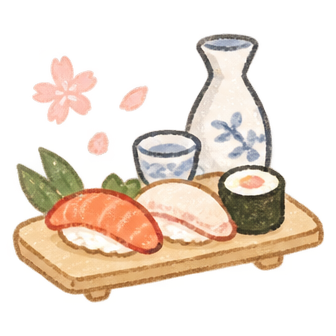
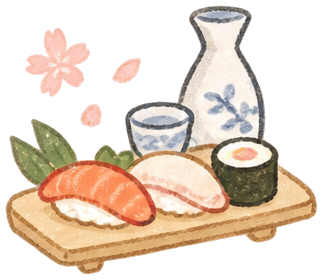
Bigger homepage dishes, cleaner fonts
- Recrop illustrations tightly so every dish fills its card like Tora
- Same soft pink behind every dish
- Drop the handwritten font and Fraunces' wonky letterforms; small
  labels now share one clean uppercase style

Claude-Session: https://claude.ai/code/session_01K3tbzaKjMcH3nM1wNB2vxt

diff --git a/app/globals.css b/app/globals.css
@@ -28,7 +28,6 @@
 
   --font-sans: "Nunito Variable", ui-rounded, -apple-system, BlinkMacSystemFont, "Segoe UI", sans-serif;
   --font-display: "Fraunces Variable", Georgia, serif;
-  --font-hand: "Gaegu", "Comic Sans MS", cursive;
 }
 
 * {
@@ -63,7 +62,7 @@ h1,
 h2,
 h3 {
   font-family: var(--font-display);
-  font-variation-settings: "SOFT" 100, "WONK" 1;
+  font-variation-settings: "SOFT" 50, "WONK" 0;
   font-weight: 650;
   letter-spacing: -0.01em;
 }
@@ -96,7 +95,7 @@ h3 {
   display: inline-flex;
   font-family: var(--font-display);
   font-size: 1.3rem;
-  font-variation-settings: "SOFT" 100, "WONK" 1;
+  font-variation-settings: "SOFT" 50, "WONK" 0;
   font-weight: 700;
   gap: 10px;
   padding: 0;
@@ -244,8 +243,7 @@ h3 {
   align-items: center;
   color: var(--coral-deep);
   display: inline-flex;
-  font-family: var(--font-hand);
-  font-size: 1.25rem;
+  font-size: 0.9rem;
   font-weight: 700;
   gap: 6px;
   line-height: 1;
@@ -270,7 +268,7 @@ h3 {
 .hero-copy h1 em {
   color: var(--coral);
   display: inline-block;
-  font-style: italic;
+  font-style: normal;
   position: relative;
 }
 
@@ -313,8 +311,7 @@ h3 {
 }
 
 .home-join label {
-  font-family: var(--font-hand);
-  font-size: 1.15rem;
+  font-size: 0.83rem;
   font-weight: 700;
 }
 
@@ -532,8 +529,7 @@ h3 {
 }
 
 .phone-status span {
-  font-family: var(--font-hand);
-  font-size: 1.2rem;
+  font-size: 0.86rem;
   font-weight: 700;
 }
 
@@ -598,8 +594,7 @@ h3 {
   background: white;
   border: 2.5px solid currentColor;
   border-radius: 12px;
-  font-family: var(--font-hand);
-  font-size: 1.1rem;
+  font-size: 0.79rem;
   font-weight: 700;
   opacity: 0;
   padding: 1px 10px;
@@ -649,7 +644,7 @@ h3 {
   display: block;
   font-family: var(--font-display);
   font-size: 1.35rem;
-  font-variation-settings: "SOFT" 100, "WONK" 1;
+  font-variation-settings: "SOFT" 50, "WONK" 0;
   font-weight: 650;
   line-height: 1.05;
   margin: 2px 0;
@@ -717,8 +712,7 @@ h3 {
 
 .swipe-hint {
   color: var(--muted);
-  font-family: var(--font-hand);
-  font-size: 1rem;
+  font-size: 0.78rem;
   margin: 0;
   text-align: center;
 }
@@ -745,8 +739,7 @@ h3 {
   align-items: center;
   color: var(--coral-deep);
   display: inline-flex;
-  font-family: var(--font-hand);
-  font-size: 1.15rem;
+  font-size: 0.83rem;
   font-weight: 700;
   gap: 5px;
 }
@@ -759,7 +752,7 @@ h3 {
 .prototype-match-pop strong {
   font-family: var(--font-display);
   font-size: 1.6rem;
-  font-variation-settings: "SOFT" 100, "WONK" 1;
+  font-variation-settings: "SOFT" 50, "WONK" 0;
   line-height: 1.05;
   margin-top: 4px;
 }
@@ -839,7 +832,7 @@ h3 {
 }
 
 .dish-art-image {
-  inset: 8% 10%;
+  inset: 9% 8%;
   position: absolute;
 }
 
@@ -889,8 +882,7 @@ h3 {
 
 .dish-art-placeholder em {
   color: var(--muted);
-  font-family: var(--font-hand);
-  font-size: 1.4rem;
+  font-size: 1.01rem;
   font-style: normal;
   font-weight: 700;
 }
@@ -907,8 +899,7 @@ h3 {
 }
 
 .food-fallback span {
-  font-family: var(--font-hand);
-  font-size: 1.3rem;
+  font-size: 0.94rem;
   font-weight: 700;
 }
 
@@ -994,8 +985,7 @@ h3 {
   border-radius: 50%;
   content: counter(step);
   display: flex;
-  font-family: var(--font-hand);
-  font-size: 1.3rem;
+  font-size: 0.94rem;
   font-weight: 700;
   grid-row: span 2;
   height: 40px;
@@ -1063,8 +1053,7 @@ h3 {
 
 .availability-note strong {
   color: var(--butter-deep);
-  font-family: var(--font-hand);
-  font-size: 1.1rem;
+  font-size: 0.79rem;
 }
 
 .segmented-control {
@@ -1122,8 +1111,7 @@ h3 {
 .preference-summary > span {
   color: var(--coral-deep);
   display: block;
-  font-family: var(--font-hand);
-  font-size: 1.1rem;
+  font-size: 0.79rem;
   font-weight: 700;
   margin-bottom: 2px;
 }
@@ -1250,8 +1238,7 @@ h3 {
   background: white;
   border: 3px solid currentColor;
   border-radius: 14px;
-  font-family: var(--font-hand);
-  font-size: 1.8rem;
+  font-size: 1.3rem;
   font-weight: 700;
   padding: 0 14px;
   pointer-events: none;
@@ -1304,8 +1291,7 @@ h3 {
 
 .restaurant-meta {
   color: var(--coral-deep);
-  font-family: var(--font-hand);
-  font-size: 1.2rem;
+  font-size: 0.86rem;
   font-weight: 700;
 }
 
@@ -1437,8 +1423,7 @@ h3 {
 
 .swipe-tip {
   color: var(--muted);
-  font-family: var(--font-hand);
-  font-size: 1.05rem;
+  font-size: 0.78rem;
   margin: 12px 0 0;
   text-align: center;
 }
@@ -1460,7 +1445,7 @@ h3 {
   display: block;
   font-family: var(--font-display);
   font-size: 2rem;
-  font-variation-settings: "SOFT" 100, "WONK" 1;
+  font-variation-settings: "SOFT" 50, "WONK" 0;
   letter-spacing: 0.06em;
   line-height: 1;
 }
@@ -1557,8 +1542,7 @@ h3 {
 
 .results-hint {
   color: var(--muted);
-  font-family: var(--font-hand);
-  font-size: 1.05rem;
+  font-size: 0.78rem;
   margin: -6px 0 12px;
 }
 
@@ -1602,8 +1586,7 @@ h3 {
 }
 
 .result-row.locked small {
-  font-family: var(--font-hand);
-  font-size: 0.95rem;
+  font-size: 0.78rem;
 }
 
 .vote-meter {
@@ -1734,7 +1717,7 @@ h3 {
 .matched-restaurant > strong {
   font-family: var(--font-display);
   font-size: 1.35rem;
-  font-variation-settings: "SOFT" 100, "WONK" 1;
+  font-variation-settings: "SOFT" 50, "WONK" 0;
 }
 
 .matched-restaurant > span {
@@ -1823,8 +1806,7 @@ h3 {
 
 .phone-preview-copy span {
   color: var(--coral-deep);
-  font-family: var(--font-hand);
-  font-size: 1.3rem;
+  font-size: 0.94rem;
   font-weight: 700;
 }
 
@@ -2029,4 +2011,34 @@ h3 {
   .prototype-card:not(.prototype-card-1) {
     opacity: 0;
   }
+}
+
+/* ---------- Small labels: one consistent style --------------------- */
+
+.eyebrow,
+.section-kicker,
+.restaurant-meta,
+.home-join label,
+.location-box span,
+.room-link span,
+.room-code span,
+.preference-summary > span,
+.availability-note strong,
+.phone-preview-copy span {
+  font-size: 0.76rem;
+  font-weight: 800;
+  letter-spacing: 0.08em;
+  text-transform: uppercase;
+}
+
+.drag-stamp,
+.swipe-stamp {
+  font-weight: 900;
+  letter-spacing: 0.06em;
+  text-transform: uppercase;
+}
+
+.swipe-stamp {
+  font-size: 0.72rem;
+  padding: 3px 9px;
 }

diff --git a/components/DishArt.tsx b/components/DishArt.tsx
@@ -17,19 +17,8 @@ const illustrations: Partial<Record<Cuisine, string>> = {
   Greek: "/illustrations/greek.png"
 };
 
-/** Soft pastel backdrops that sit behind each illustration. */
-export const cuisineBackdrops: Record<Cuisine, string> = {
-  Italian: "#fde4dc",
-  Japanese: "#fde6ec",
-  Mexican: "#fdf0d2",
-  Thai: "#e9f3d8",
-  American: "#fbe8d6",
-  Mediterranean: "#e3f0e2",
-  Korean: "#f6e3dc",
-  Chinese: "#fdebd8",
-  Greek: "#e2edf7",
-  Indian: "#fdecd2"
-};
+/** Every dish sits on the same soft pink, so the cards read as one set. */
+const backdrop = "#fde6ec";
 
 export function DishArt({
   restaurant,
@@ -42,7 +31,6 @@ export function DishArt({
   priority?: boolean;
   bob?: boolean;
 }) {
-  const backdrop = cuisineBackdrops[restaurant.cuisine] ?? "#fbe8d6";
 
   // Real Google Places photos win when we have them.
   if (restaurant.source === "google" && restaurant.image) {
@@ -77,7 +65,7 @@ export function DishArt({
       ) : (
         <div className="dish-art-placeholder" aria-label={`${restaurant.cuisine} food`} role="img">
           <span aria-hidden="true">🍽</span>
-          <em>{restaurant.cuisine.toLowerCase()}</em>
+          <em>{restaurant.cuisine}</em>
         </div>
       )}
     </div>

diff --git a/components/SwipeDeck.tsx b/components/SwipeDeck.tsx
@@ -122,7 +122,7 @@ function RestaurantCard({ restaurant }: { restaurant: Restaurant }) {
       </div>
       <div className="restaurant-content">
         <div className="restaurant-title">
-          <span className="restaurant-meta">{restaurant.cuisine.toLowerCase()}</span>
+          <span className="restaurant-meta">{restaurant.cuisine}</span>
           <h3>{restaurant.name}</h3>
         </div>
         <p>{restaurant.vibe}</p>

diff --git a/app/layout.tsx b/app/layout.tsx
@@ -1,8 +1,6 @@
 import type { Metadata, Viewport } from "next";
 import "@fontsource-variable/fraunces/full.css";
 import "@fontsource-variable/nunito";
-import "@fontsource/gaegu/400.css";
-import "@fontsource/gaegu/700.css";
 import "./globals.css";
 
 export const metadata: Metadata = {
